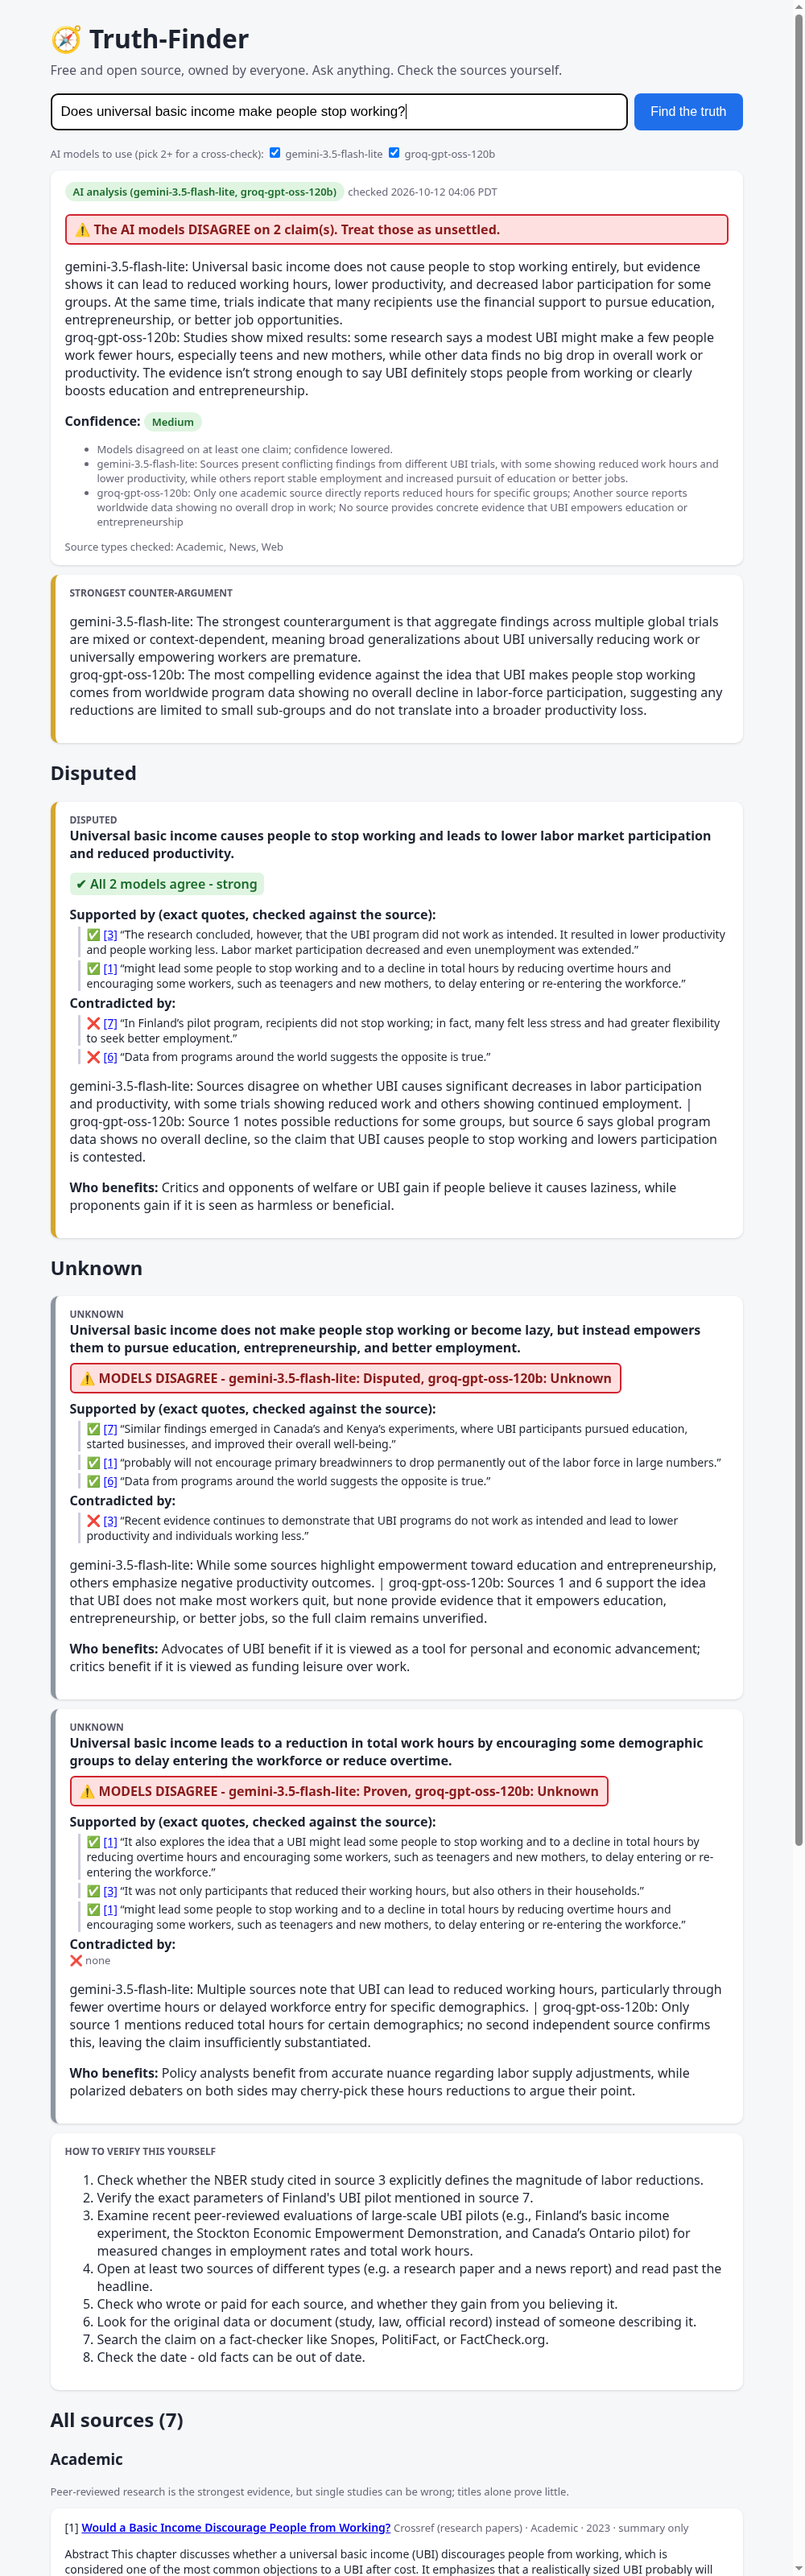
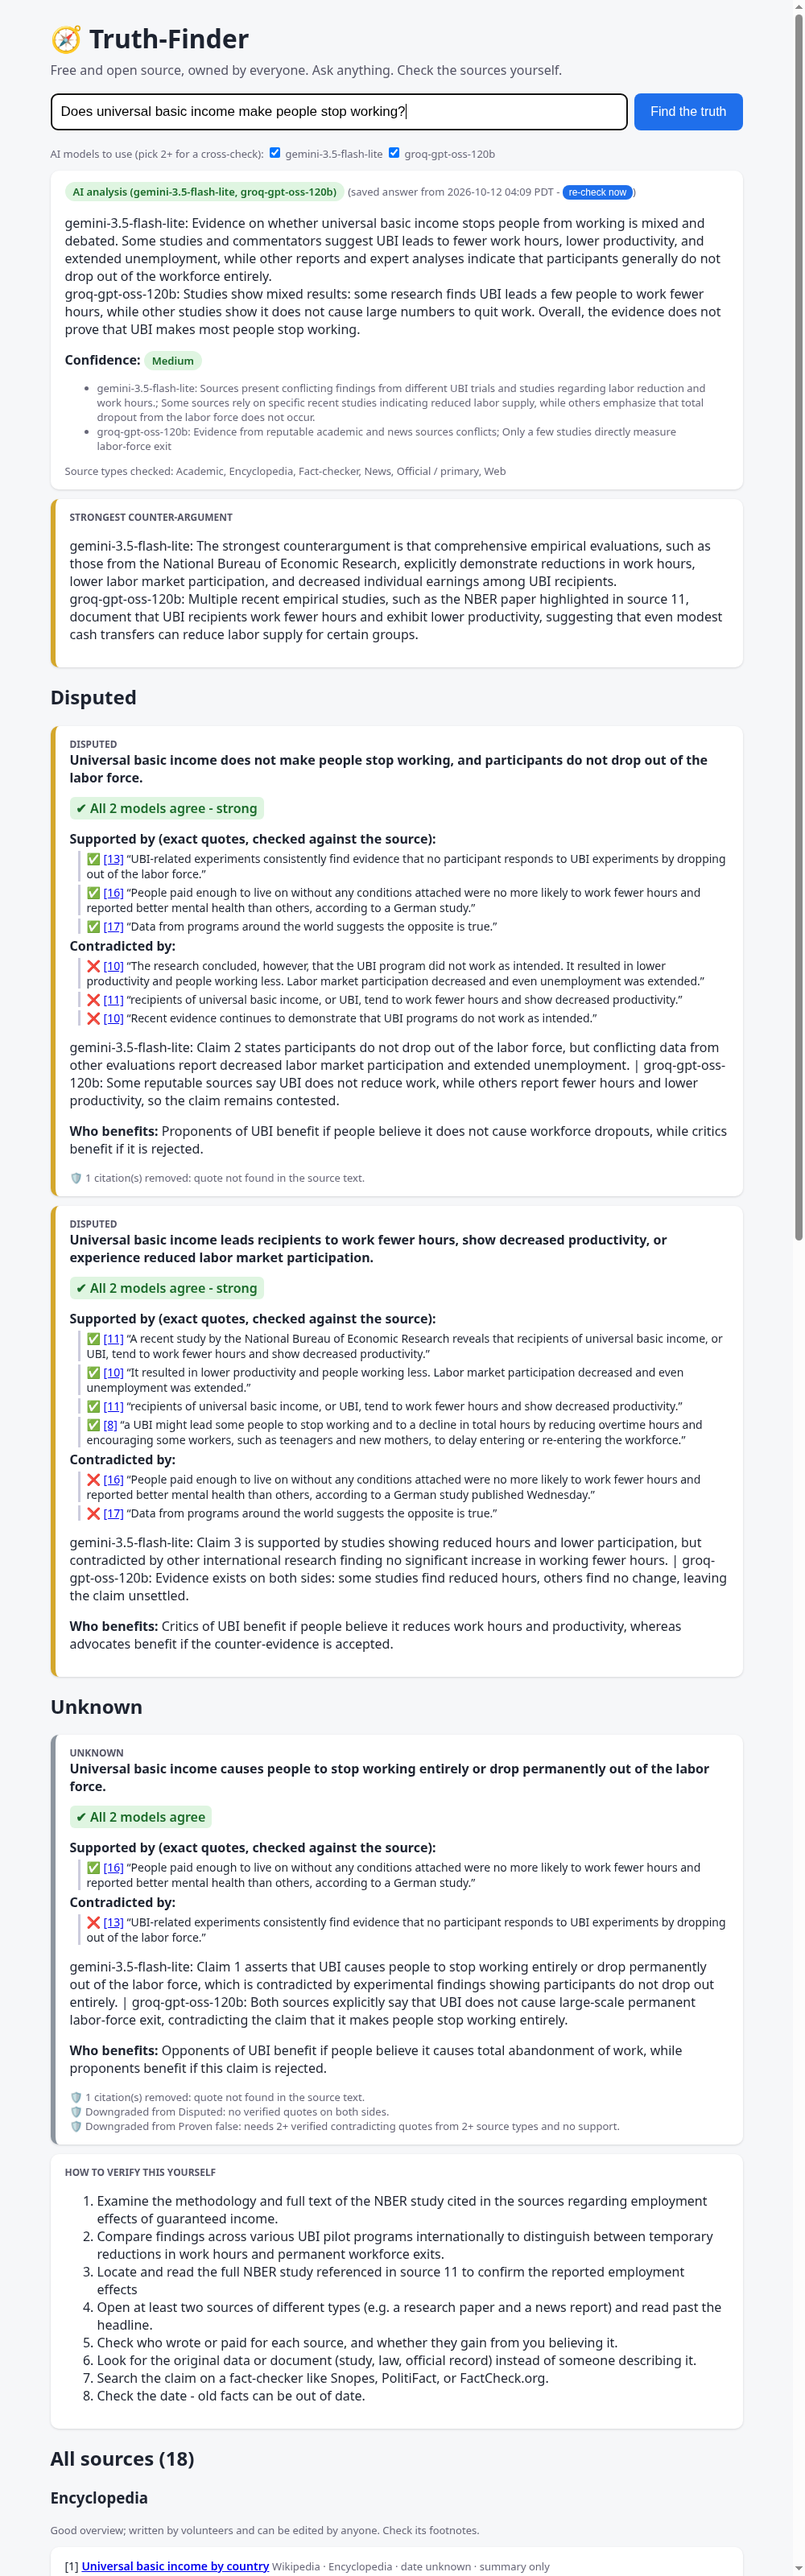
Relevance filter: ignore filler words; real UBI re-run

Changed region(s): [[0.062, 0.0625, 0.899, 1.0], [0.961, 0.4688, 1.0, 0.7188], [0.806, 0.3125, 0.868, 0.3438]]

diff --git a/app.py b/app.py
@@ -159,7 +159,7 @@ def gather(q):
             try: results += fu.result()
             except Exception as e: errors.append(f"{futs[fu]}: {type(e).__name__}")
     # Relevance gate: drop sources that share too few key words with the question (avoids padding with junk).
-    stop = {"what","does","did","is","are","the","was","were","why","how","who","when","that","this","with","from","have","really","true","invent"}
+    stop = {"what","does","did","is","are","the","was","were","why","how","who","when","that","this","with","from","have","really","true","invent","make","makes","people","cause","causes","about"}
     kw = {w for w in re.findall(r"[a-z0-9]+", q.lower()) if len(w) > 3 and w not in stop}
     need = max(1, (len(kw) + 1) // 2)
     def relevant(x):
